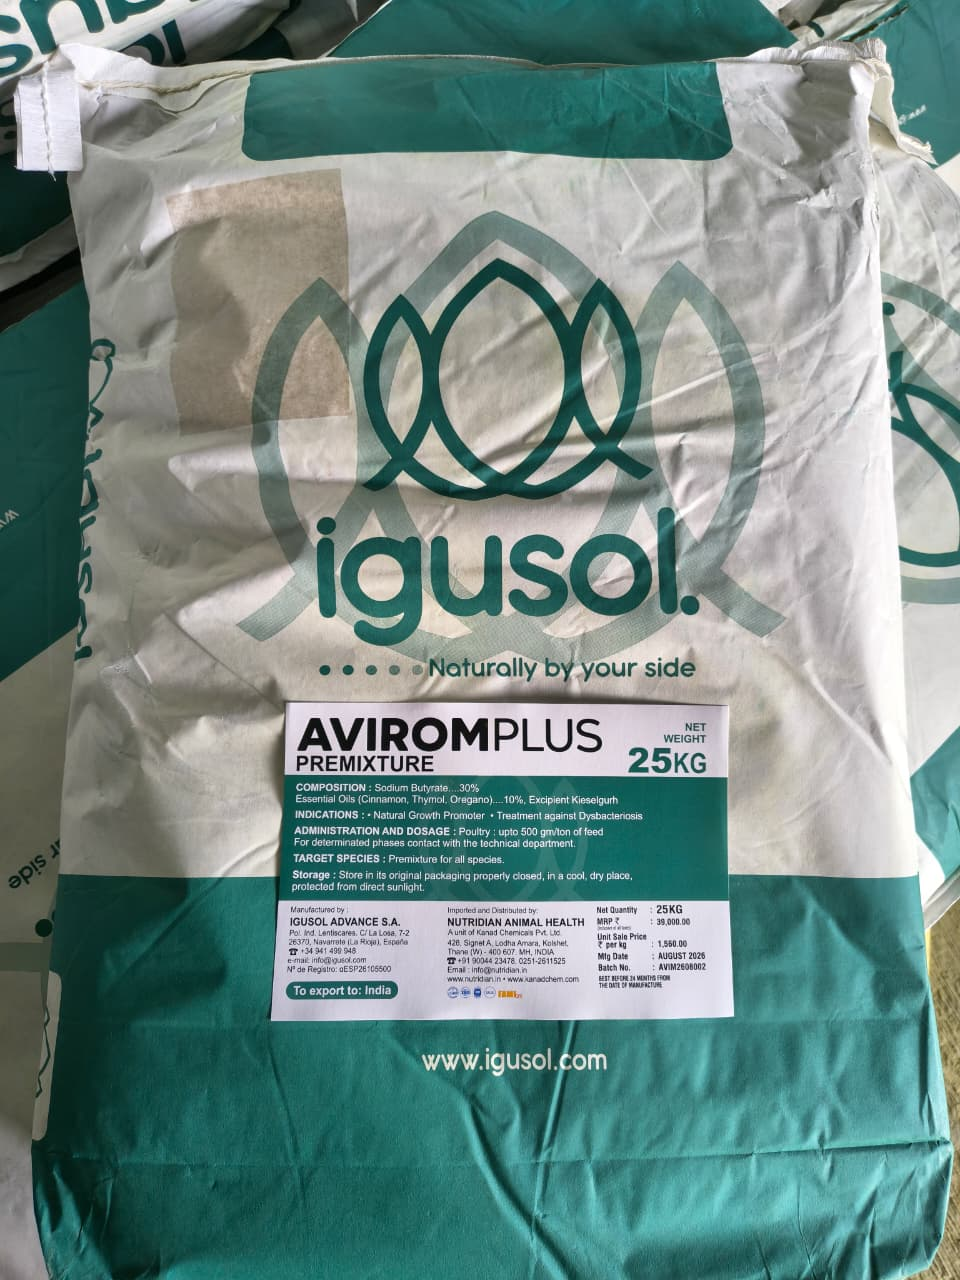
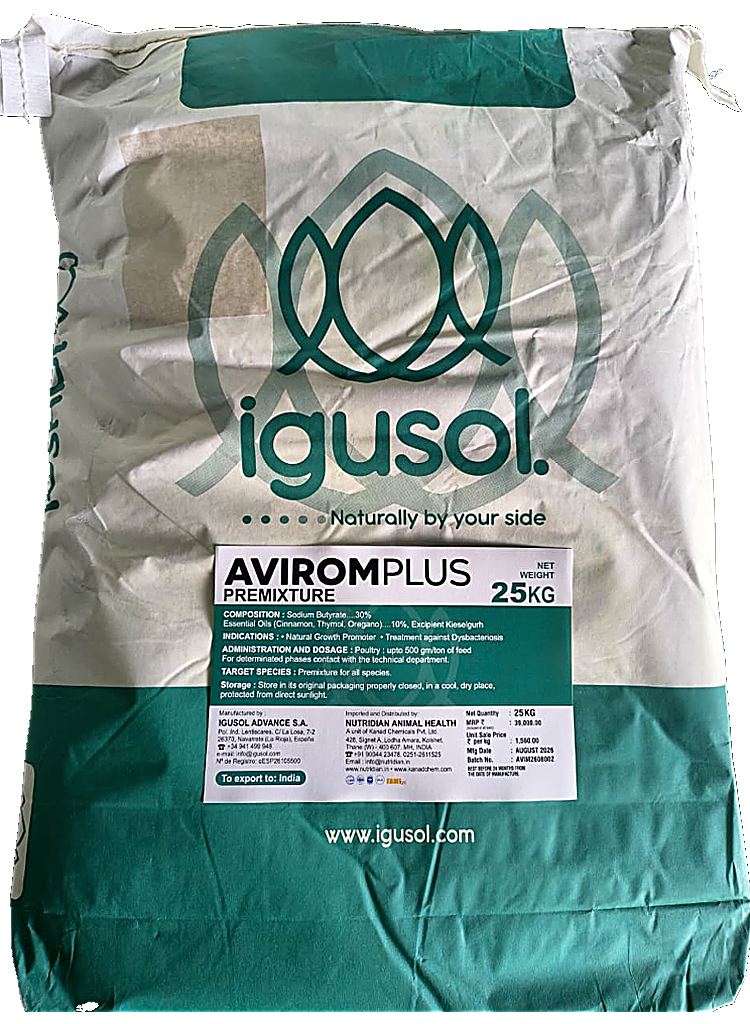
Update the 3 featured products with new high-resolution 25kg bag packaging (GOD-N 5000, Nutriquinol Powder, Avirom Plus Premixture)

diff --git a/src/data/poultryCategories.js b/src/data/poultryCategories.js
@@ -12,10 +12,10 @@ export const POULTRY_CATEGORIES = [
         title: 'NUTRIQUINOL 60%',
         subTitle: '3-in-One Versatile Non Antibiotic Growth Promoter',
         rating: 4.8,
-        image: '/products/nutriquinol_60_pack.jpg',
+        image: '/products/nutriquinol_powder_25kg.png?v=20261123',
         logoImage: '/products/nutriquinol_60_logo.png',
         gallery: [
-          '/products/nutriquinol_60_pack.jpg',
+          '/products/nutriquinol_powder_25kg.png?v=20261123',
           '/products/nutriquinol_60_page1.jpg',
           '/products/nutriquinol_60_page2.jpg',
           '/products/nutriquinol_60_page3.jpg',
@@ -56,10 +56,10 @@ export const POULTRY_CATEGORIES = [
         title: 'AVIROM PLUS',
         subTitle: 'Micro-Encapsulated Gut Modulator & Immunity Catalyst',
         rating: 4.9,
-        image: '/products/AviromPlus.png',
+        image: '/products/avirom_plus_25kg.png?v=20261123',
         logoImage: '/products/avirom_plus_logo.png',
         gallery: [
-          '/products/AviromPlus.png',
+          '/products/avirom_plus_25kg.png?v=20261123',
           '/products/Avirom plus.jpeg',
           '/products/Avirom Folder 2026 01.jpg',
           '/products/Avirom Folder 2026 02.jpg',
@@ -80,10 +80,10 @@ export const POULTRY_CATEGORIES = [
         title: 'GOD-N',
         subTitle: 'Glucose Oxidase Bio-Catalyst Digestive Enzyme',
         rating: 4.8,
-        image: '/products/God-N 5000.png',
+        image: '/products/god_n_5000_25kg.png?v=20261123',
         logoImage: '/products/god_n_logo.png',
         gallery: [
-          '/products/God-N 5000.png',
+          '/products/god_n_5000_25kg.png?v=20261123',
           '/products/God-N Folder 01.jpg',
           '/products/God-N Folder 02.jpg',
           '/products/God-N Folder 03.jpg',

diff --git a/src/components/GlanceProducts.jsx b/src/components/GlanceProducts.jsx
@@ -6,8 +6,8 @@ export default function GlanceProducts({ onRequestInfo }) {
       id: 'god_n',
       name: 'GOD-N',
       logo: '/products/god_n_logo.png',
-      image: '/products/God-N 5000.png',
-      alt: 'GOD-N Feed Additive Bag',
+      image: '/products/god_n_5000_25kg.png?v=20261123',
+      alt: 'GOD-N 5000 Feed Additive 25kg Bag',
       kcplBadge: true
     },
     {
@@ -15,16 +15,16 @@ export default function GlanceProducts({ onRequestInfo }) {
       name: 'Nutriquinol Powder',
       logo: '/products/nutriquinol_60_logo.png',
       isPowder: true,
-      image: '/products/nutriquinol_60_pack.jpg',
-      alt: 'Nutriquinol Powder Bag',
+      image: '/products/nutriquinol_powder_25kg.png?v=20261123',
+      alt: 'Nutriquinol Powder 25kg Bag',
       kcplBadge: true
     },
     {
       id: 'avirom_plus',
       name: 'AVIROM PLUS',
       logo: '/products/avirom_plus_logo.png',
-      image: '/products/AviromPlus.png',
-      alt: 'Avirom Plus Bag',
+      image: '/products/avirom_plus_25kg.png?v=20261123',
+      alt: 'Avirom Plus Premixture 25kg Bag',
       kcplBadge: true
     }
   ]
